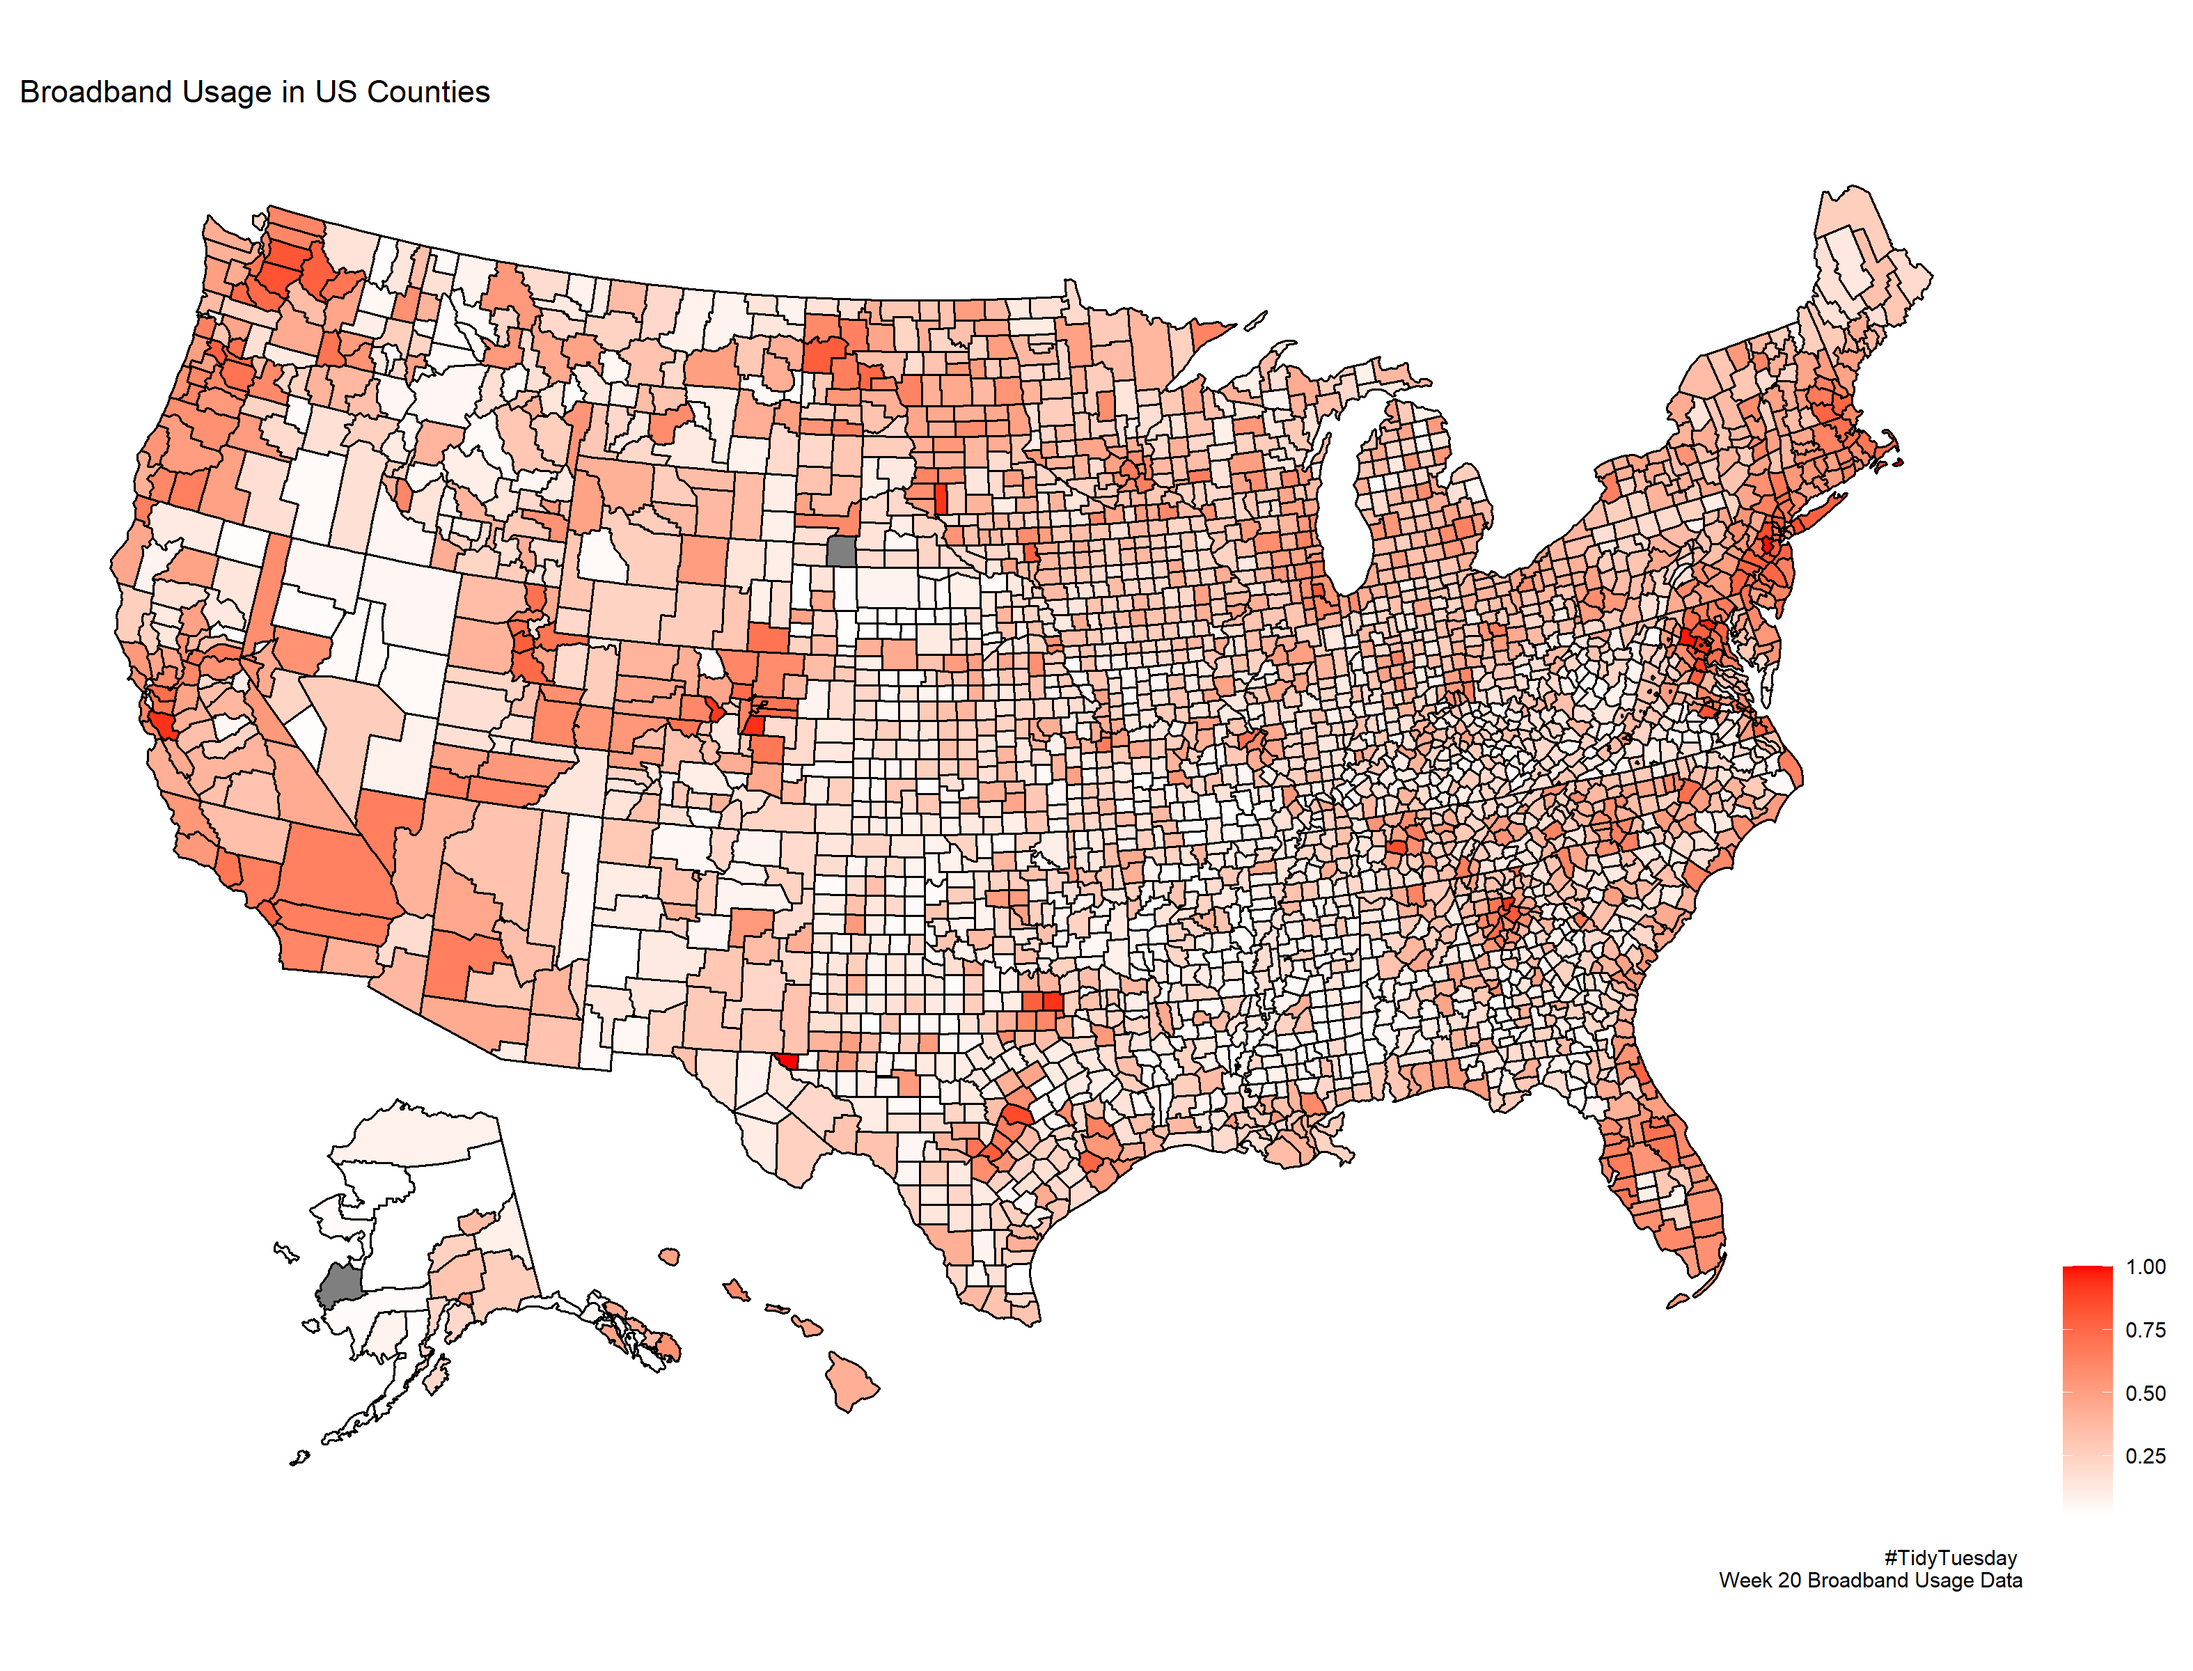
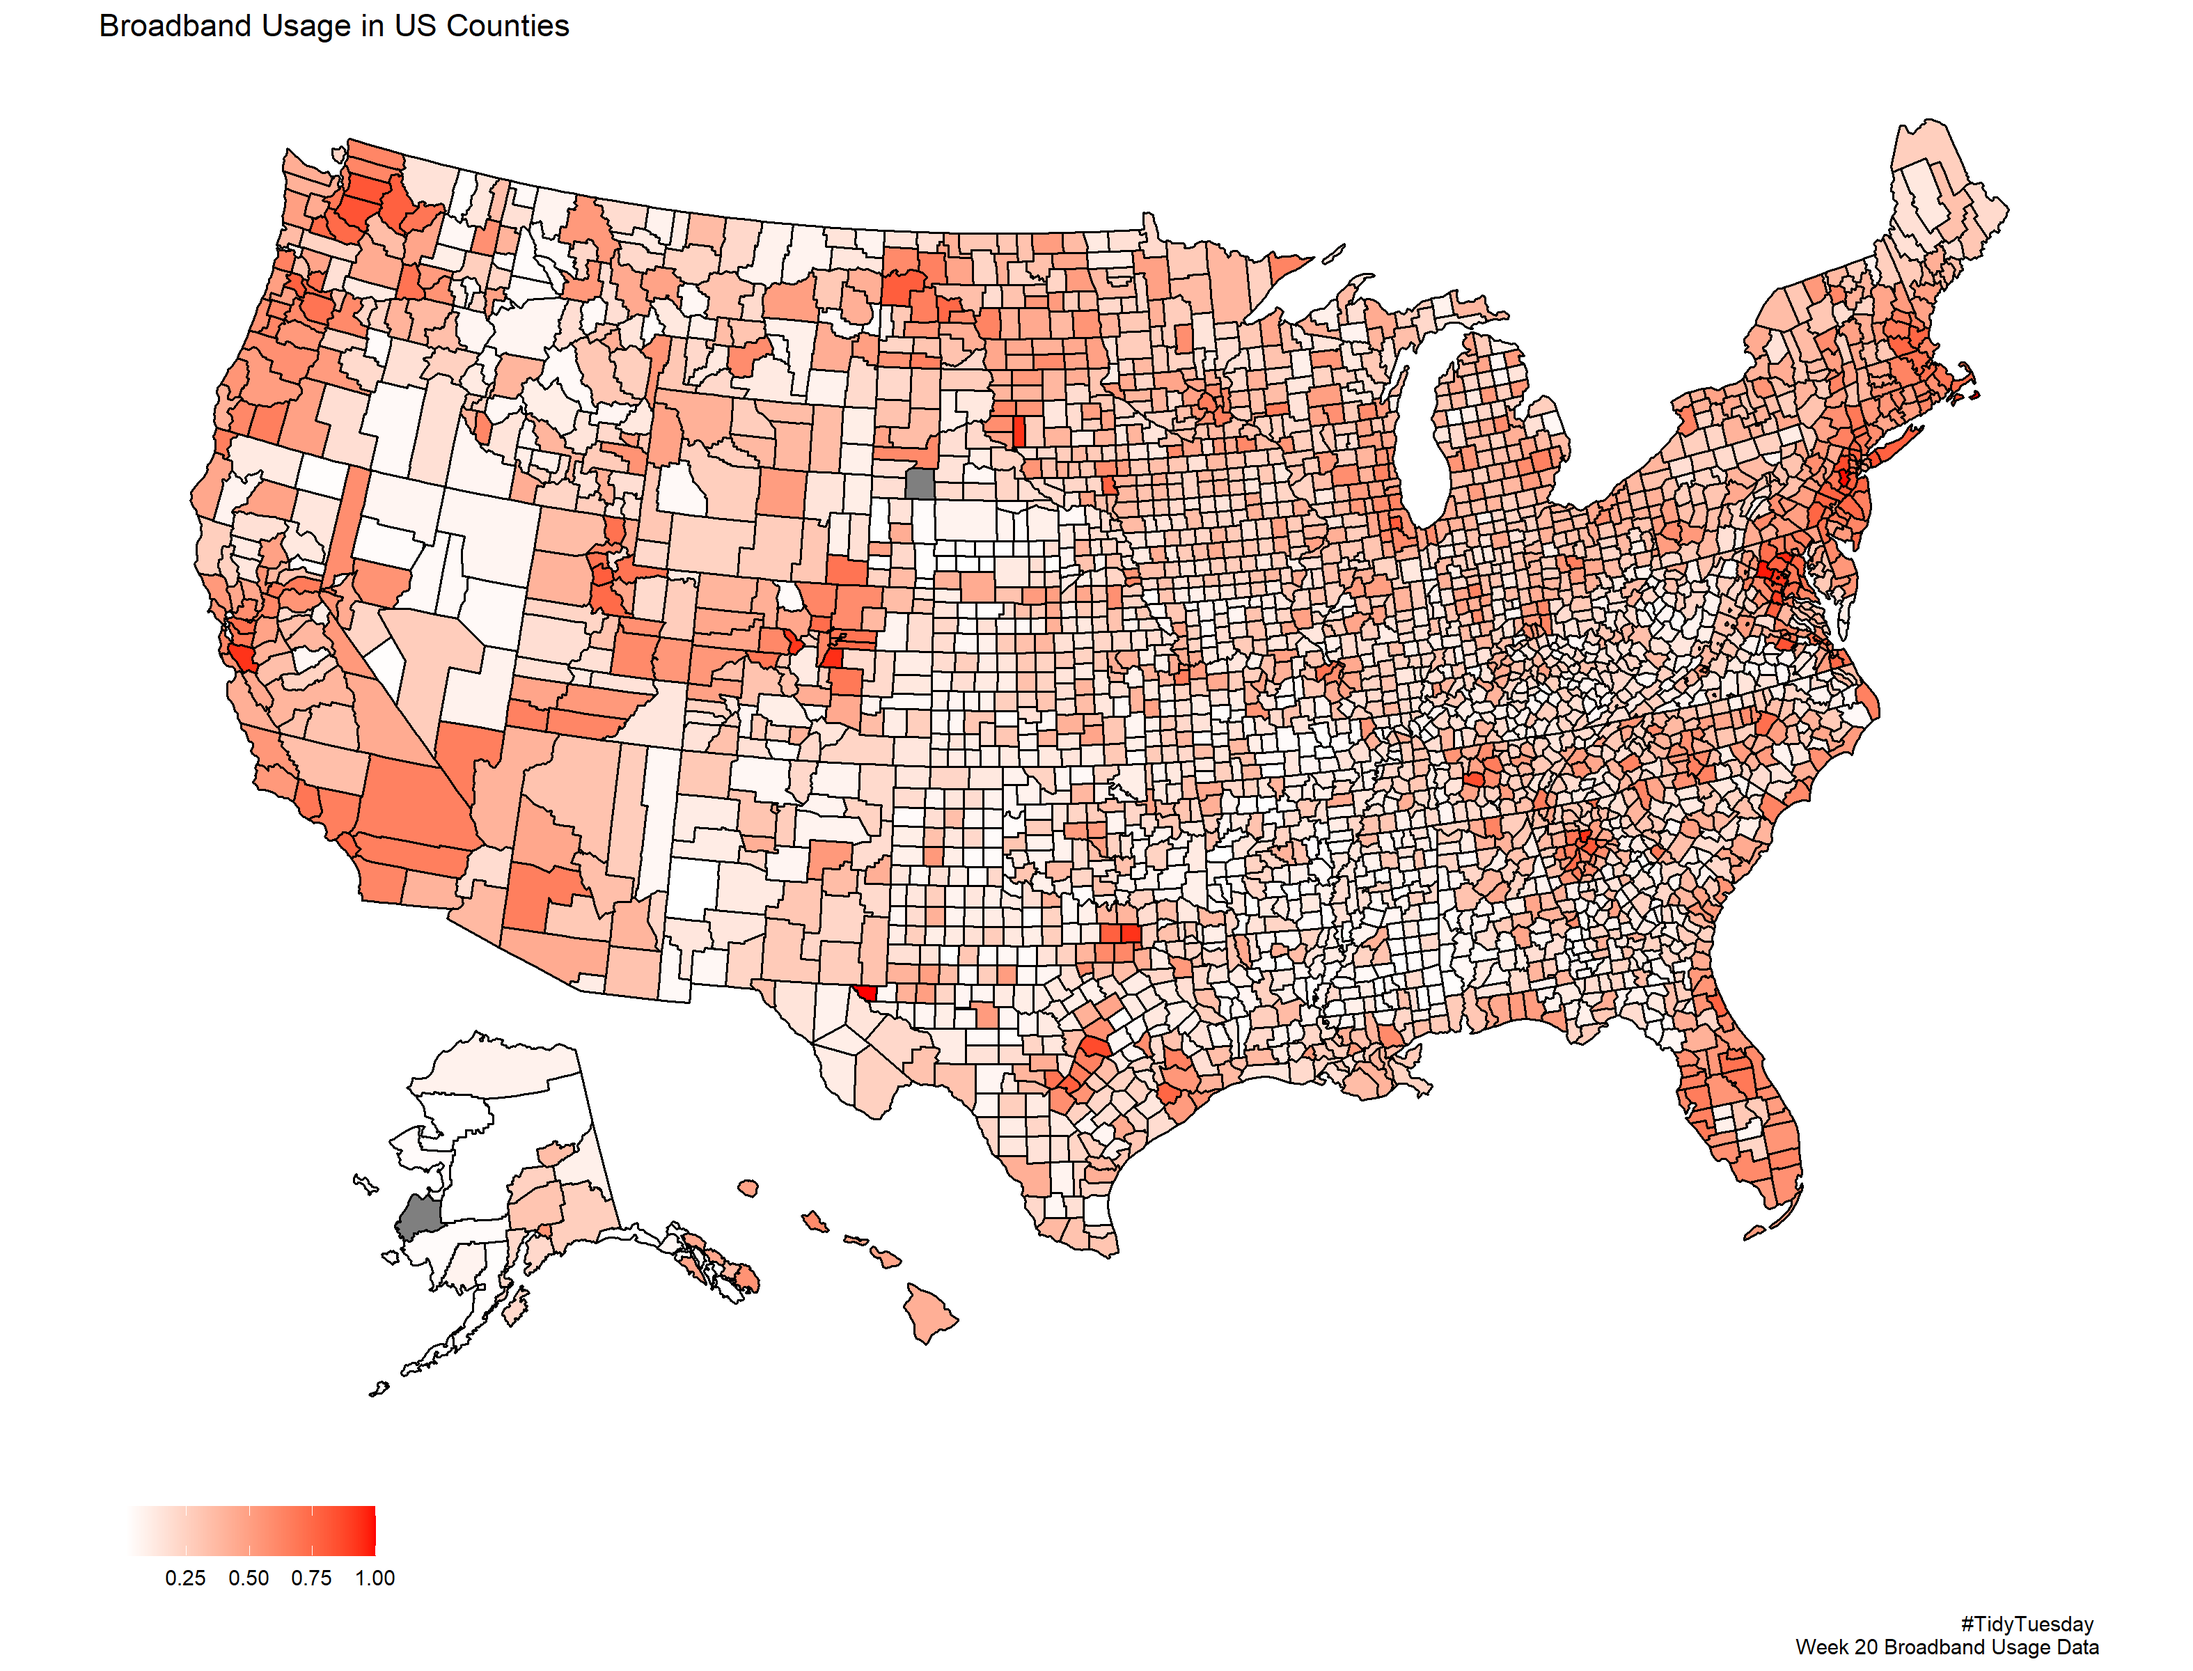
Embedded outputs in the README file and correct legend for the combined plot.

diff --git a/Week 20 - Broadband/README.md b/Week 20 - Broadband/README.md
@@ -1,0 +1,36 @@
+Overview
+================
+Pramod Surve
+5/14/2021
+
+## Week 20 Broadband Data
+
+I created **choropleth map** with the data.
+
+![](Output/Choropleth.png)
+
+### Learnings
+
+-   I have used the usmap library to create us map. However there are
+    many more popular libraries to ceate US maps as noted in the
+    reference section.
+
+    -   It is important to create county\_ids by name fips or state
+        codes by name state if you want to plot by state or counties.
+
+-   The patchwork library requires **&** instead of **+** to specify the
+    theme to put the legend in the correct position.
+
+### Additional References
+
+Here are some additional resources to create maps using R.
+
+Other important library is **maps**. Some useful documentation can be
+found over
+[here.](https://www.rdocumentation.org/packages/maps/versions/3.3.0/topics/map)
+
+Here is a [comprehensive
+documentation](https://www.r-graph-gallery.com/choropleth-map.html) to
+create choropleth maps.
+
+[Geocomputation book](https://geocompr.robinlovelace.net/intro.html)
